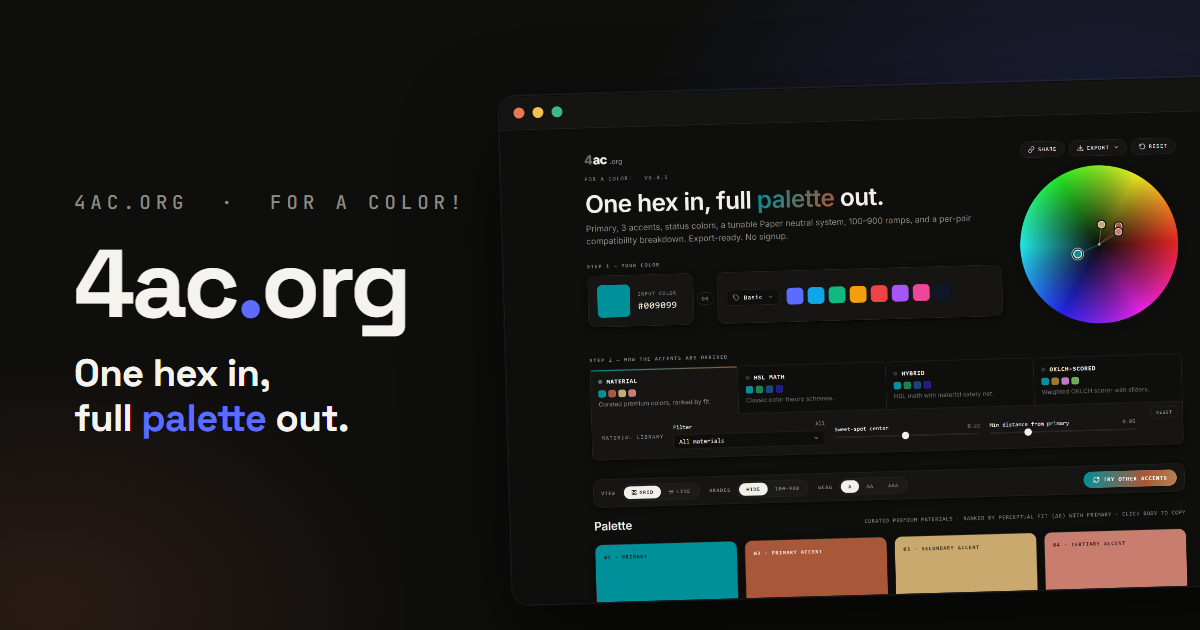
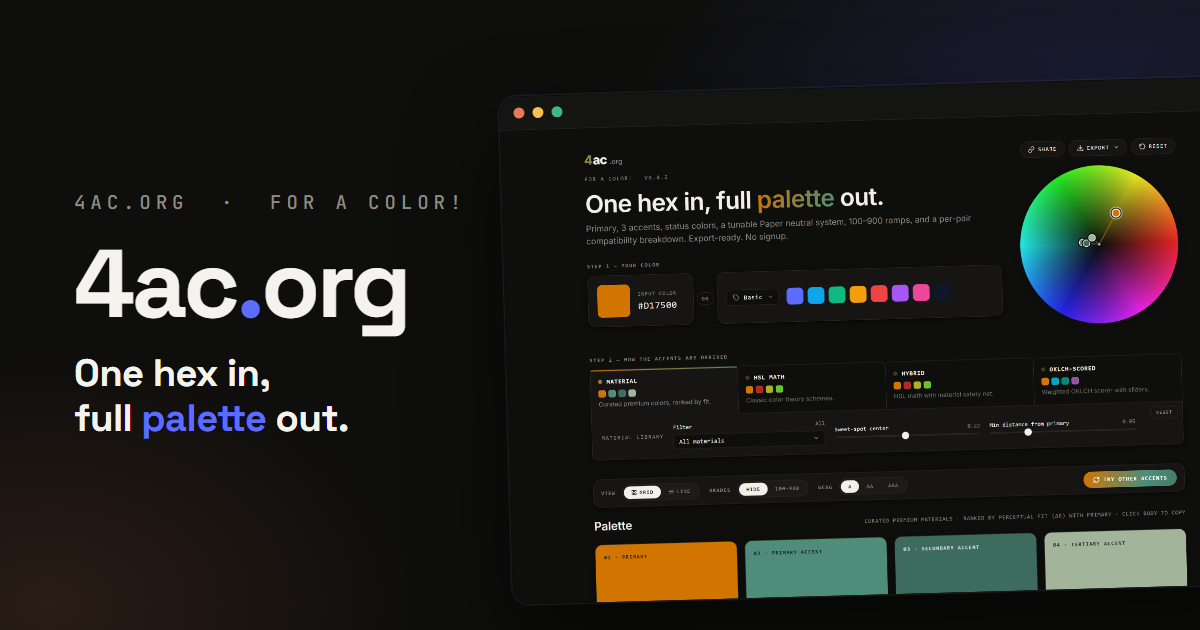
v0.4.2: bump version; refresh social card screenshot

diff --git a/index.html b/index.html
@@ -1085,7 +1085,7 @@ function trackDebounced(event, params){ clearTimeout(_dbt[event]); _dbt[event] =
         <a href="https://4ac.org" class="wordmark" title="For a Color!">
           <span class="wm-4">4</span><span class="wm-ac">ac</span><span class="wm-tld">.org</span>
         </a>
-        <div class="eyebrow">For a Color! · v0.4.1</div>
+        <div class="eyebrow">For a Color! · v0.4.2</div>
         <h1>One hex in, full <em>palette</em> out.</h1>
         <p class="lede">Primary, 3 accents, status colors, a tunable Paper neutral system, 100–900 ramps, and a per-pair compatibility breakdown. Export-ready. No signup.</p>
 
